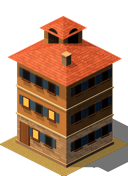
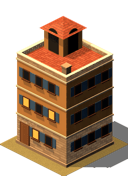
fix(isokit): stand the palazzo loggia tower on a roof terrace

diff --git a/Tools/IsoKit/Sources/IsoKitCore/Recipes/AgeRecipes.swift b/Tools/IsoKit/Sources/IsoKitCore/Recipes/AgeRecipes.swift
@@ -234,7 +234,8 @@ extension Recipes {
             }
         ),
         "renaissance-mediterranean": AgeStyle(
-            ground: .ashlar, walls: .paint(Civic.ochre), storeys: [2, 3, 3], roof: { _ in .hip(.tile, pitch: 22) },
+            ground: .ashlar, walls: .paint(Civic.ochre), storeys: [2, 3, 3],
+            roof: { $0 == 3 ? .flat(deck: .tile) : .hip(.tile, pitch: 22) },
             shutters: Looks.blueShutter,
             extras: { kit, box in
                 kit.cornice(box, finish: .paint(Civic.travertine))
@@ -462,7 +463,7 @@ extension Builder {
         }
     }
 
-    /// A roof-top loggia tower at the back corner: open arches under a low tile hip.
+    /// A loggia tower on the back corner of a roof terrace: open arches under a low tile hip.
     func loggiaTower(_ box: AgeBox) {
         let lo = SCNVector3(box.lo.x + 0.5, box.top, box.lo.z + 0.5), hi = SCNVector3(box.lo.x + 2.9, box.top + 2.2, box.lo.z + 2.9)
         block(lo, hi, .paint(Civic.ochre))

diff --git a/Packages/CityRender2D/Sources/CityRender2D/ChimneySmoke.swift b/Packages/CityRender2D/Sources/CityRender2D/ChimneySmoke.swift
@@ -128,7 +128,7 @@ enum ChimneyAnchors {
         "building-house-tier3-renaissance-east-asian": (0.519, 0.389),
         "building-house-renaissance-mediterranean": (0.537, 0.306),
         "building-house-tier2-renaissance-mediterranean": (0.537, 0.295),
-        "building-house-tier3-renaissance-mediterranean": (0.519, 0.306),
+        "building-house-tier3-renaissance-mediterranean": (0.519, 0.370),
         "building-house-renaissance-middle-eastern": (0.537, 0.308),
         "building-house-tier2-renaissance-middle-eastern": (0.537, 0.295),
         "building-house-tier3-renaissance-middle-eastern": (0.519, 0.307),
